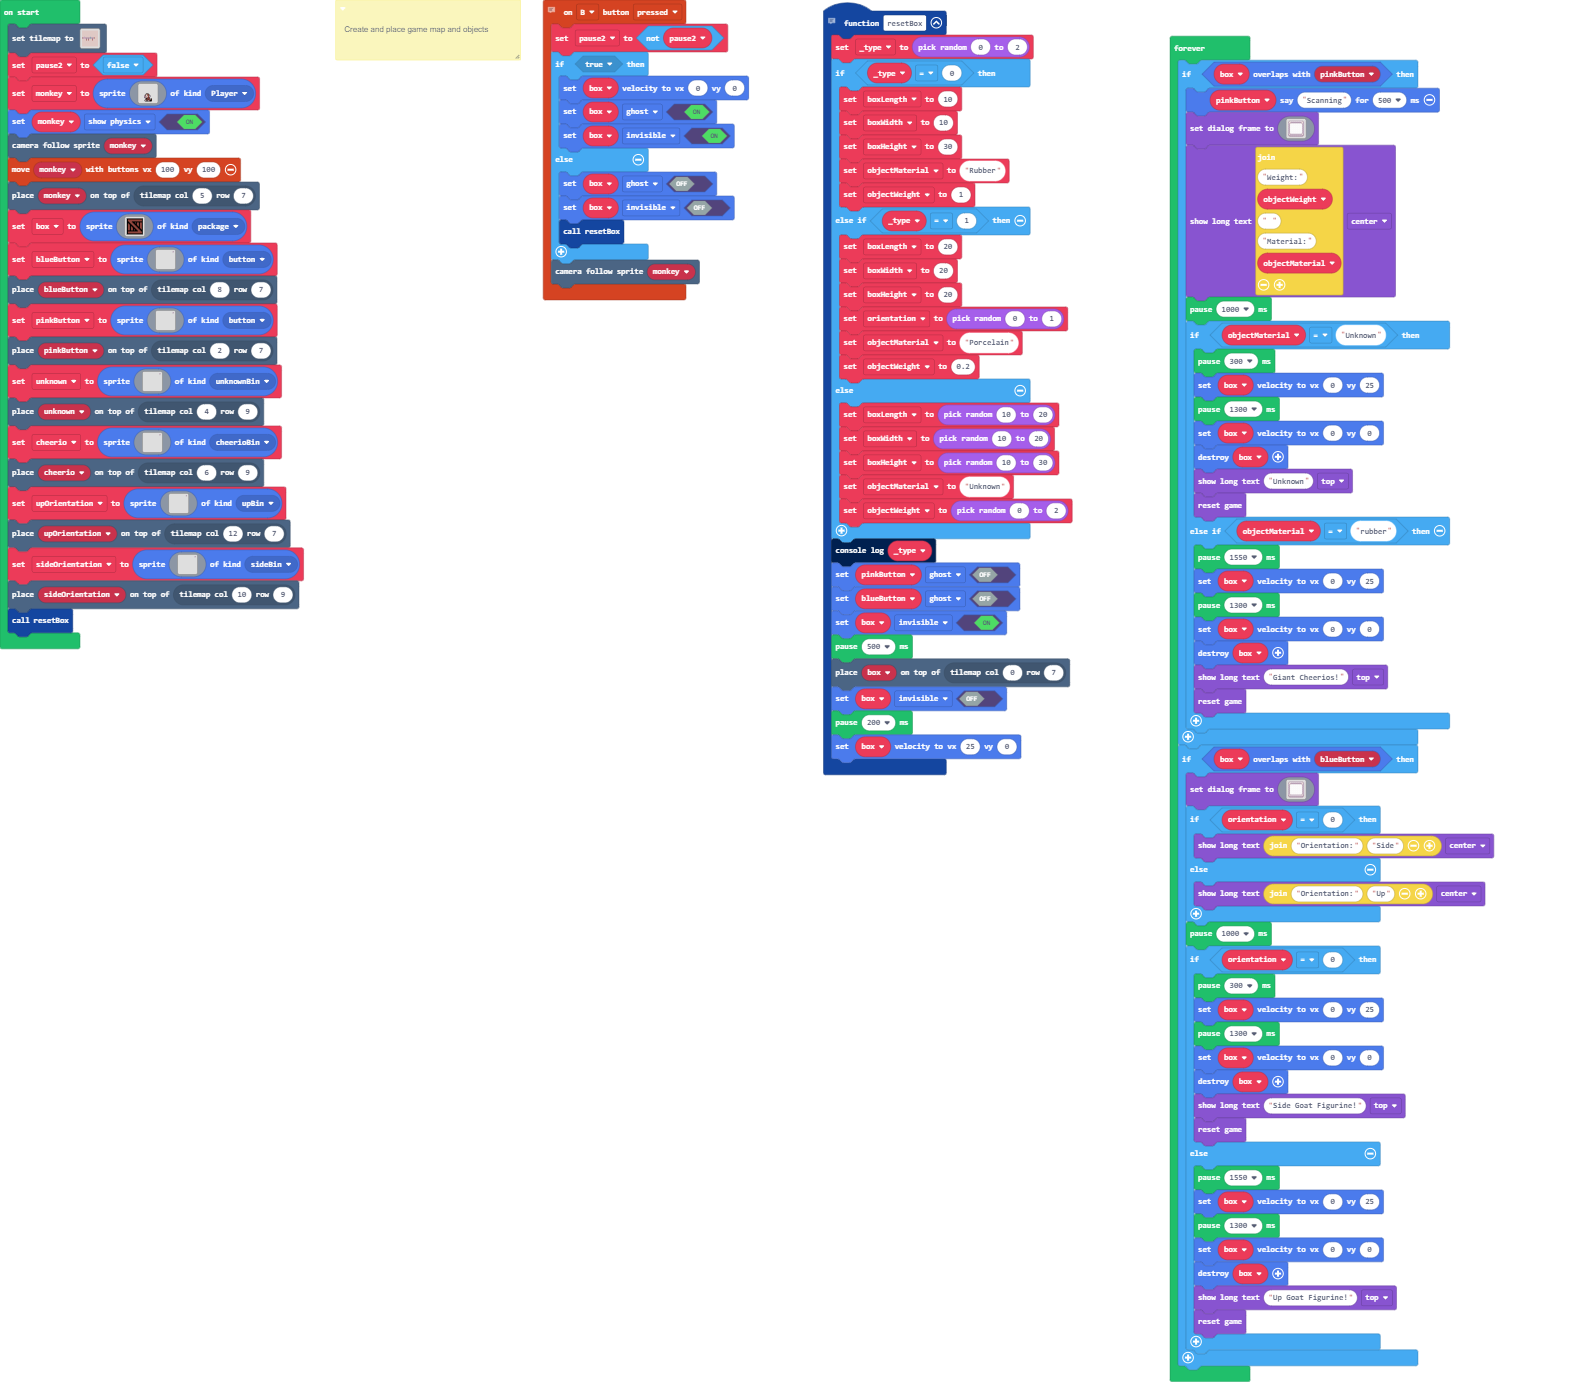
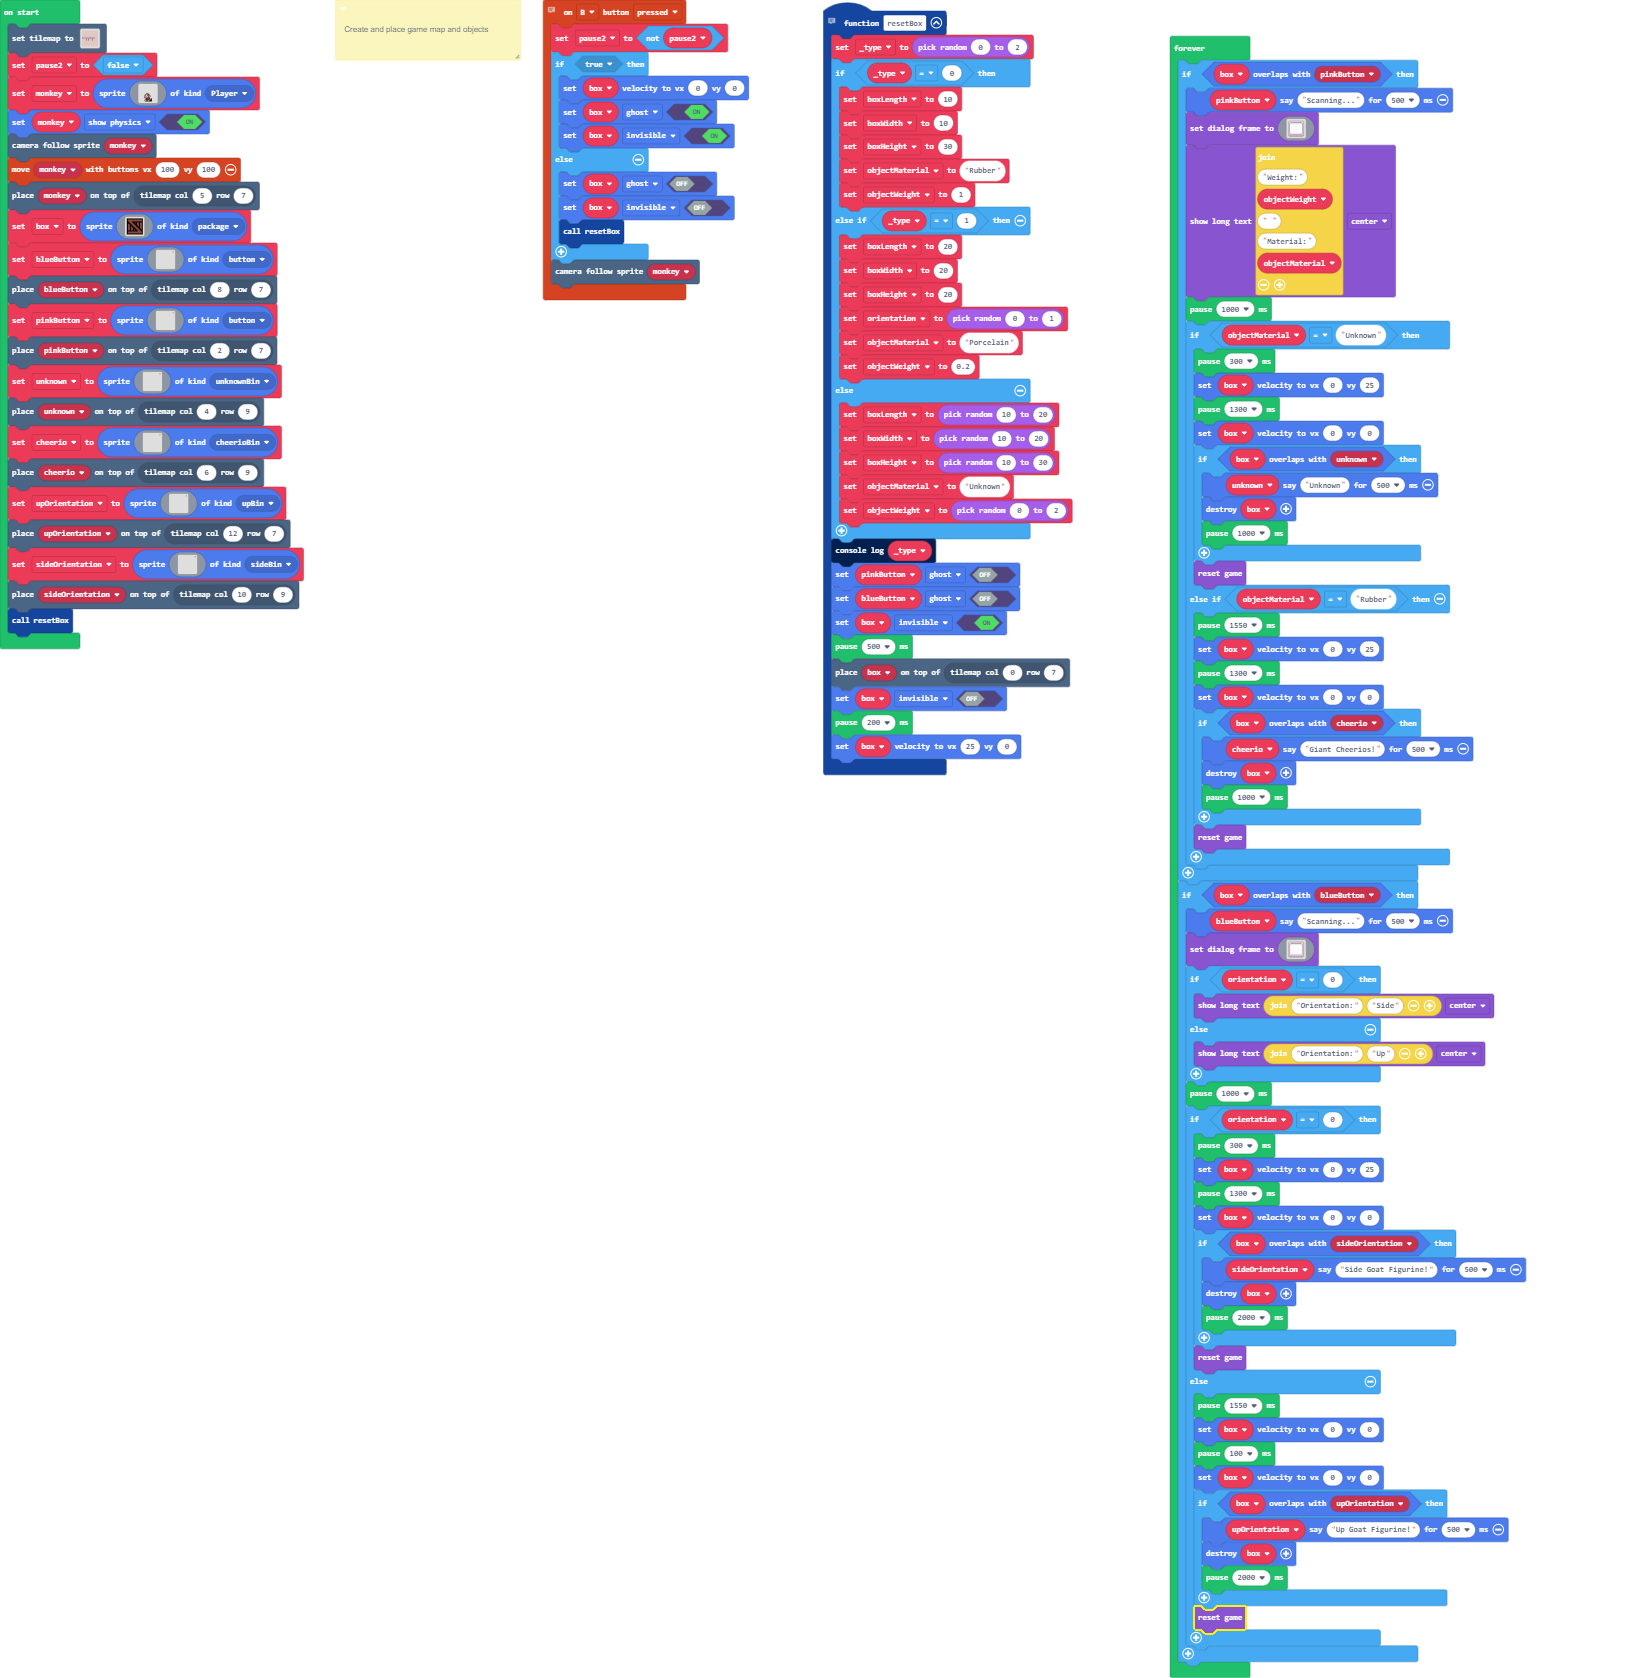
Update main.blocks, main.ts

diff --git a/main.ts b/main.ts
@@ -245,7 +245,7 @@ tiles.placeOnTile(sideOrientation, tiles.getTileLocation(10, 9))
 resetBox()
 forever(function () {
     if (box.overlapsWith(pinkButton)) {
-        pinkButton.say("Scanning", 500)
+        pinkButton.say("Scanning...", 500)
         game.setDialogFrame(img`
             ..bbbbbbbbbbbbbbbbbbbb..
             .bd111111111111111111db.
@@ -279,20 +279,27 @@ forever(function () {
             box.setVelocity(0, 25)
             pause(1300)
             box.setVelocity(0, 0)
-            box.destroy()
-            game.showLongText("Unknown", DialogLayout.Top)
+            if (box.overlapsWith(unknown)) {
+                unknown.say("Unknown", 500)
+                box.destroy()
+                pause(1000)
+            }
             game.reset()
-        } else if (objectMaterial == "rubber") {
+        } else if (objectMaterial == "Rubber") {
             pause(1550)
             box.setVelocity(0, 25)
             pause(1300)
             box.setVelocity(0, 0)
-            box.destroy()
-            game.showLongText("Giant Cheerios!", DialogLayout.Top)
+            if (box.overlapsWith(cheerio)) {
+                cheerio.say("Giant Cheerios!", 500)
+                box.destroy()
+                pause(1000)
+            }
             game.reset()
         }
     }
     if (box.overlapsWith(blueButton)) {
+        blueButton.say("Scanning...", 500)
         game.setDialogFrame(img`
             ..bbbbbbbbbbbbbbbbbbbb..
             .bd111111111111111111db.
@@ -330,16 +337,22 @@ forever(function () {
             box.setVelocity(0, 25)
             pause(1300)
             box.setVelocity(0, 0)
-            box.destroy()
-            game.showLongText("Side Goat Figurine!", DialogLayout.Top)
+            if (box.overlapsWith(sideOrientation)) {
+                sideOrientation.say("Side Goat Figurine!", 500)
+                box.destroy()
+                pause(2000)
+            }
             game.reset()
         } else {
             pause(1550)
-            box.setVelocity(0, 25)
-            pause(1300)
             box.setVelocity(0, 0)
-            box.destroy()
-            game.showLongText("Up Goat Figurine!", DialogLayout.Top)
+            pause(100)
+            box.setVelocity(0, 0)
+            if (box.overlapsWith(upOrientation)) {
+                upOrientation.say("Up Goat Figurine!", 500)
+                box.destroy()
+                pause(2000)
+            }
             game.reset()
         }
     }
